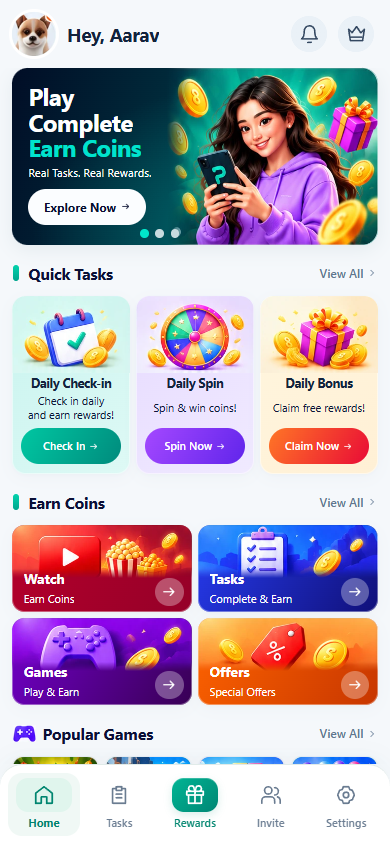
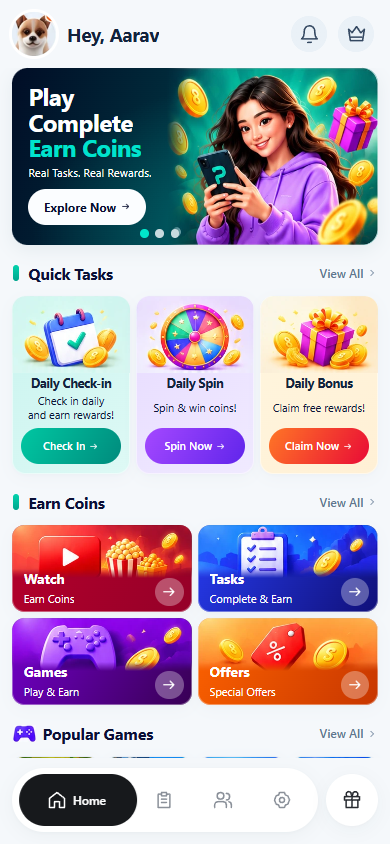
Add floating capsule navigation with sliding active pill

Changed region(s): [[0.0308, 0.8934, 0.9538, 0.9858]]

diff --git a/ui/preview/polish-review.html b/ui/preview/polish-review.html
@@ -1,1 +1,1 @@
-<!doctype html><html lang="en"><head><meta charset="utf-8"><meta name="viewport" content="width=device-width,initial-scale=1"><title>Paiso UI review</title><style>*{box-sizing:border-box}body{margin:0;background:#f5f8fb;color:#13233c;font:15px/1.6 system-ui,sans-serif}main{max-width:1180px;margin:auto;padding:36px 20px}header{margin-bottom:32px}header small{color:#009b7e;font-weight:700}h1{font-size:32px;letter-spacing:-1px;margin:8px 0}p{color:#65758d;margin:0}h2{font-size:21px;margin:32px 0 16px}.grid{display:grid;grid-template-columns:repeat(auto-fit,minmax(220px,1fr));gap:22px}figure{margin:0;overflow:hidden;border:1px solid #e5edf3;border-radius:18px;background:#fff;box-shadow:0 4px 16px #16395508}img{display:block;width:100%;height:auto}figcaption{padding:12px 16px;font-weight:600;border-top:1px solid #edf1f5}a:focus-visible{outline:3px solid #009b7e;outline-offset:-3px}</style></head><body><main><header><small>PAISO · UI REVIEW</small><h1>Consistent pages. Clear feedback.</h1><p>Browser previews with test data. Select an image to view it at full size.</p></header><section><h2>Main screens</h2><div class="grid"><figure><a href="home.png"><img src="home.png" loading="lazy" alt="Home preview"></a><figcaption>Home</figcaption></figure><figure><a href="tasks.png"><img src="tasks.png" loading="lazy" alt="Tasks preview"></a><figcaption>Tasks</figcaption></figure><figure><a href="refer.png"><img src="refer.png" loading="lazy" alt="Invite preview"></a><figcaption>Invite</figcaption></figure><figure><a href="wallet.png"><img src="wallet.png" loading="lazy" alt="Settings preview"></a><figcaption>Settings</figcaption></figure><figure><a href="games.png"><img src="games.png" loading="lazy" alt="Games preview"></a><figcaption>Games</figcaption></figure><figure><a href="offers.png"><img src="offers.png" loading="lazy" alt="Offers preview"></a><figcaption>Offers</figcaption></figure></div></section><section><h2>Details</h2><div class="grid"><figure><a href="tasks-offers-list.png"><img src="tasks-offers-list.png" loading="lazy" alt="Task list preview"></a><figcaption>Task list</figcaption></figure><figure><a href="settings-sub-verify.png"><img src="settings-sub-verify.png" loading="lazy" alt="Verification preview"></a><figcaption>Verification</figcaption></figure><figure><a href="withdraw.png"><img src="withdraw.png" loading="lazy" alt="Withdrawal preview"></a><figcaption>Withdrawal</figcaption></figure><figure><a href="notifications.png"><img src="notifications.png" loading="lazy" alt="Notifications preview"></a><figcaption>Notifications</figcaption></figure></div></section><section><h2>Action feedback</h2><div class="grid"><figure><a href="feedback-success.png"><img src="feedback-success.png" loading="lazy" alt="Success preview"></a><figcaption>Success</figcaption></figure><figure><a href="feedback-warning.png"><img src="feedback-warning.png" loading="lazy" alt="Warning preview"></a><figcaption>Warning</figcaption></figure><figure><a href="feedback-error.png"><img src="feedback-error.png" loading="lazy" alt="Error preview"></a><figcaption>Error</figcaption></figure><figure><a href="feedback-info.png"><img src="feedback-info.png" loading="lazy" alt="Processing preview"></a><figcaption>Processing</figcaption></figure></div></section><section><h2>Responsive fullscreen layout</h2><div class="grid"><figure><a href="home-320.png"><img src="home-320.png" loading="lazy" alt="Mobile navigation"></a><figcaption>Mobile navigation</figcaption></figure><figure><a href="home-768.png"><img src="home-768.png" loading="lazy" alt="Tablet Home"></a><figcaption>Tablet Home</figcaption></figure><figure><a href="home-1280.png"><img src="home-1280.png" loading="lazy" alt="Desktop Home"></a><figcaption>Desktop Home</figcaption></figure><figure><a href="tasks-1280.png"><img src="tasks-1280.png" loading="lazy" alt="Desktop Tasks"></a><figcaption>Desktop Tasks</figcaption></figure></div></section></main></body></html>
+<!doctype html><html lang="en"><head><meta charset="utf-8"><meta name="viewport" content="width=device-width,initial-scale=1"><title>Paiso UI review</title><style>*{box-sizing:border-box}body{margin:0;background:#f5f8fb;color:#13233c;font:15px/1.6 system-ui,sans-serif}main{max-width:1180px;margin:auto;padding:36px 20px}header{margin-bottom:32px}header small{color:#009b7e;font-weight:700}h1{font-size:32px;letter-spacing:-1px;margin:8px 0}p{color:#65758d;margin:0}h2{font-size:21px;margin:32px 0 16px}.grid{display:grid;grid-template-columns:repeat(auto-fit,minmax(220px,1fr));gap:22px}figure{margin:0;overflow:hidden;border:1px solid #e5edf3;border-radius:18px;background:#fff;box-shadow:0 4px 16px #16395508}img{display:block;width:100%;height:auto}figcaption{padding:12px 16px;font-weight:600;border-top:1px solid #edf1f5}a:focus-visible{outline:3px solid #009b7e;outline-offset:-3px}</style></head><body><main><header><small>PAISO · UI REVIEW</small><h1>Consistent pages. Clear feedback.</h1><p>Browser previews with test data. Select an image to view it at full size.</p></header><section><h2>Main screens</h2><div class="grid"><figure><a href="home.png"><img src="home.png" loading="lazy" alt="Home preview"></a><figcaption>Home</figcaption></figure><figure><a href="tasks.png"><img src="tasks.png" loading="lazy" alt="Tasks preview"></a><figcaption>Tasks</figcaption></figure><figure><a href="refer.png"><img src="refer.png" loading="lazy" alt="Invite preview"></a><figcaption>Invite</figcaption></figure><figure><a href="wallet.png"><img src="wallet.png" loading="lazy" alt="Settings preview"></a><figcaption>Settings</figcaption></figure><figure><a href="games.png"><img src="games.png" loading="lazy" alt="Games preview"></a><figcaption>Games</figcaption></figure><figure><a href="offers.png"><img src="offers.png" loading="lazy" alt="Offers preview"></a><figcaption>Offers</figcaption></figure></div></section><section><h2>Details</h2><div class="grid"><figure><a href="tasks-offers-list.png"><img src="tasks-offers-list.png" loading="lazy" alt="Task list preview"></a><figcaption>Task list</figcaption></figure><figure><a href="settings-sub-verify.png"><img src="settings-sub-verify.png" loading="lazy" alt="Verification preview"></a><figcaption>Verification</figcaption></figure><figure><a href="withdraw.png"><img src="withdraw.png" loading="lazy" alt="Withdrawal preview"></a><figcaption>Withdrawal</figcaption></figure><figure><a href="notifications.png"><img src="notifications.png" loading="lazy" alt="Notifications preview"></a><figcaption>Notifications</figcaption></figure></div></section><section><h2>Action feedback</h2><div class="grid"><figure><a href="feedback-success.png"><img src="feedback-success.png" loading="lazy" alt="Success preview"></a><figcaption>Success</figcaption></figure><figure><a href="feedback-warning.png"><img src="feedback-warning.png" loading="lazy" alt="Warning preview"></a><figcaption>Warning</figcaption></figure><figure><a href="feedback-error.png"><img src="feedback-error.png" loading="lazy" alt="Error preview"></a><figcaption>Error</figcaption></figure><figure><a href="feedback-info.png"><img src="feedback-info.png" loading="lazy" alt="Processing preview"></a><figcaption>Processing</figcaption></figure></div></section><section><h2>Responsive fullscreen layout</h2><div class="grid"><figure><a href="home-320.png"><img src="home-320.png" loading="lazy" alt="Mobile navigation"></a><figcaption>Mobile navigation</figcaption></figure><figure><a href="home-768.png"><img src="home-768.png" loading="lazy" alt="Tablet Home"></a><figcaption>Tablet Home</figcaption></figure><figure><a href="home-1280.png"><img src="home-1280.png" loading="lazy" alt="Desktop Home"></a><figcaption>Desktop Home</figcaption></figure><figure><a href="tasks-1280.png"><img src="tasks-1280.png" loading="lazy" alt="Desktop Tasks"></a><figcaption>Desktop Tasks</figcaption></figure></div></section><section><h2>Floating capsule navigation</h2><div class="grid"><figure><img src="navigation-home.png" loading="lazy" alt="Home selected in floating navigation"><figcaption>Home</figcaption></figure><figure><img src="navigation-tasks.png" loading="lazy" alt="Tasks selected in floating navigation"><figcaption>Tasks</figcaption></figure><figure><img src="navigation-refer.png" loading="lazy" alt="Invite selected in floating navigation"><figcaption>Invite</figcaption></figure><figure><img src="navigation-wallet.png" loading="lazy" alt="Settings selected in floating navigation"><figcaption>Settings</figcaption></figure></div></section></main></body></html>

diff --git a/public/responsive.css b/public/responsive.css
@@ -14,40 +14,60 @@
 .app-viewport, .settings-overlay-layer { border-left: env(safe-area-inset-left, 0px) solid transparent; border-right: env(safe-area-inset-right, 0px) solid transparent; }
 .settings-subpage > .screen-content { max-width: 760px; }
 
-/* A stable five-item dock: the reward action stays inside its own touch target. */
+/* Floating capsule and independent reward action. Reserve scroll space naturally. */
 nav.bottom-nav {
-  position: relative; inset: auto; flex: 0 0 auto; width: 100%;
-  height: auto; min-height: 80px; border-radius: 22px 22px 0 0;
-  padding: 8px max(8px, env(safe-area-inset-right, 0px)) calc(8px + env(safe-area-inset-bottom, 0px)) max(8px, env(safe-area-inset-left, 0px));
-  border-top: 1px solid #e1ebe9; background: #fffffffa;
-  box-shadow: 0 -6px 24px #173d4b08; backdrop-filter: blur(18px);
+  --nav-motion: 320ms cubic-bezier(.22,.68,0,1);
+  position: relative; inset: auto; display: flex; align-items: center; gap: 8px;
+  flex: 0 0 auto; width: calc(100% - 24px - env(safe-area-inset-left, 0px) - env(safe-area-inset-right, 0px)); max-width: 440px;
+  height: 64px; min-height: 64px; margin: 10px auto calc(12px + env(safe-area-inset-bottom, 0px));
+  padding: 0; border: 0; border-radius: 999px; background: transparent;
+  box-shadow: none; backdrop-filter: none; -webkit-backdrop-filter: none;
 }
-.bottom-nav-items { display: grid; grid-template-columns: repeat(5, minmax(0, 1fr)); gap: 4px; width: 100%; max-width: 680px; margin: 0 auto; }
+.bottom-nav-items {
+  position: relative; isolation: isolate; display: grid; grid-template-columns: 2fr 1fr 1fr 1fr;
+  flex: 1; min-width: 0; height: 64px; padding: 6px; border-radius: 999px;
+  background: #fff; box-shadow: 0 4px 18px #1423300b, 0 1px 3px #14233006;
+  transition: grid-template-columns var(--nav-motion);
+}
+.nav-active-pill {
+  position: absolute; z-index: -1; left: 6px; top: 6px; bottom: 6px;
+  width: calc((100% - 12px) * .4); border-radius: 999px; background: #17191c;
+  pointer-events: none; transform: translateX(0); transition: transform var(--nav-motion);
+}
+.bottom-nav-items:has([data-tab=tasks].active) { grid-template-columns: 1fr 2fr 1fr 1fr; }
+.bottom-nav-items:has([data-tab=refer].active) { grid-template-columns: 1fr 1fr 2fr 1fr; }
+.bottom-nav-items:has([data-tab=wallet].active) { grid-template-columns: 1fr 1fr 1fr 2fr; }
+.bottom-nav-items:has([data-tab=tasks].active) .nav-active-pill { transform: translateX(50%); }
+.bottom-nav-items:has([data-tab=refer].active) .nav-active-pill { transform: translateX(100%); }
+.bottom-nav-items:has([data-tab=wallet].active) .nav-active-pill { transform: translateX(150%); }
 nav.bottom-nav button, nav.bottom-nav button.nav-reward {
-  min-width: 0; min-height: 63px; padding: 3px 0; gap: 3px; border-radius: 14px;
-  color: #6a7c91; font-size: 11px; font-weight: 600; line-height: 16px;
-  transition: color 160ms var(--ui-ease), background-color 160ms var(--ui-ease);
+  display: flex; flex-direction: row; align-items: center; justify-content: center;
+  min-width: 0; min-height: 52px; height: 52px; padding: 0; gap: 0;
+  border: 0; border-radius: 999px; background: transparent; box-shadow: none;
+  color: #8a9099; font-size: 12px; font-weight: 600; line-height: 18px;
+  transition: color 180ms ease, gap var(--nav-motion);
 }
 nav.bottom-nav button .nav-icon, nav.bottom-nav .nav-reward > .nav-icon {
-  position: relative; inset: auto; display: grid; place-items: center; flex-shrink: 0;
-  width: 56px; max-width: 100%; height: 34px; border: 0; border-radius: 12px;
-  color: inherit; background: transparent; box-shadow: none;
-  transition: background-color 180ms var(--ui-ease), transform 180ms var(--ui-ease);
+  position: static; inset: auto; display: grid; place-items: center; flex: 0 0 20px;
+  width: 20px; height: 20px; border: 0; border-radius: 0; background: none; box-shadow: none; color: inherit;
+  transition: transform 180ms ease;
 }
-nav.bottom-nav button svg, nav.bottom-nav .nav-reward svg { width: 22px; height: 22px; fill: none; stroke-width: 1.8; }
+nav.bottom-nav button svg, nav.bottom-nav .nav-reward svg { width: 20px; height: 20px; fill: none; stroke-width: 1.8; }
 nav.bottom-nav button.active[data-tab=home] svg { fill: none; stroke-width: 1.8; }
-nav.bottom-nav button.active { color: #00856f; font-weight: 700; }
-nav.bottom-nav button.active .nav-icon { background: #e0f5ed; }
+nav.bottom-nav .nav-label { max-width: 0; overflow: hidden; opacity: 0; white-space: nowrap; transition: max-width var(--nav-motion), opacity 160ms ease; }
+nav.bottom-nav button.active { color: #fff; gap: 6px; font-weight: 600; }
+nav.bottom-nav button.active .nav-label { max-width: 65px; opacity: 1; }
 nav.bottom-nav button.active::after { display: none; }
-nav.bottom-nav .nav-reward > .nav-icon { width: 46px; color: white; background: linear-gradient(135deg,#00b594,#008674); box-shadow: 0 3px 8px #008e7426, inset 0 1px 0 #ffffff35; }
-nav.bottom-nav .nav-reward > .nav-label {
-  position: static; display: block; width: auto; height: auto; border: 0; border-radius: 0;
-  background: none; box-shadow: none; color: #00856f;
+nav.bottom-nav button.nav-reward {
+  flex: 0 0 52px; width: 52px; height: 52px; min-height: 52px;
+  color: #272a30; background: #fff; box-shadow: 0 4px 18px #1423300b, 0 1px 3px #14233006;
 }
-nav.bottom-nav button:active .nav-icon { transform: scale(.94); }
-nav.bottom-nav button:focus-visible { outline: 2px solid #009b7e; outline-offset: -2px; }
+nav.bottom-nav button:active .nav-icon { transform: scale(.9); }
+nav.bottom-nav button:focus-visible { outline: 2px solid #758190; outline-offset: 2px; }
+nav.bottom-nav button.active:focus-visible { outline-color: #17191c; }
 @media (hover: hover) {
-  nav.bottom-nav button:hover { color: #00856f; background: #f0f8f5; }
+  nav.bottom-nav button:not(.active):hover { color: #272a30; }
+  nav.bottom-nav button.nav-reward:hover { background: #f9fafb; }
 }
 
 @media (min-width: 600px) {
@@ -77,7 +97,6 @@ nav.bottom-nav button:focus-visible { outline: 2px solid #009b7e; outline-offset
   .screen-content.settings-content { padding: 24px var(--page-gutter) 32px; }
   #tab-games > .screen-content, #tab-offers > .screen-content, #tab-refer > .screen-content { padding: 24px var(--page-gutter) 32px; }
   .games-grid { grid-template-columns: repeat(3, minmax(0, 1fr)); }
-  nav.bottom-nav { border-radius: 0; }
 }
 @media (min-width: 760px) {
   .home-layout, .tasks-layout { grid-template-columns: repeat(2, minmax(0, 1fr)); align-items: start; }
@@ -111,10 +130,8 @@ nav.bottom-nav button:focus-visible { outline: 2px solid #009b7e; outline-offset
 }
 @media (max-height: 500px) and (min-width: 600px) {
   .home-header { height: calc(60px + env(safe-area-inset-top, 0px)); min-height: 60px; padding-top: calc(8px + env(safe-area-inset-top, 0px)); padding-bottom: 8px; }
-  nav.bottom-nav { min-height: 68px; padding-top: 4px; padding-bottom: calc(4px + env(safe-area-inset-bottom, 0px)); }
-  nav.bottom-nav button, nav.bottom-nav button.nav-reward { min-height: 59px; }
 }
 @media (prefers-reduced-motion: reduce) {
-  nav.bottom-nav button, nav.bottom-nav button .nav-icon { transition: none; }
+  nav.bottom-nav button, nav.bottom-nav button .nav-icon, nav.bottom-nav .nav-label, .bottom-nav-items, .nav-active-pill { transition: none; }
   nav.bottom-nav button:active .nav-icon { transform: none; }
 }

diff --git a/public/app.js b/public/app.js
@@ -928,26 +928,26 @@ function SettingsOverlays({ children }) {
 function BottomNav() {
     return h("nav", { className: "bottom-nav", "aria-label": "Main navigation" },
         h("div", { className: "bottom-nav-items" },
-            h("button", { type: "button", "data-tab": "home", className: "active", "aria-current": "page", onClick: () => window.showTab('home') },
+            h("span", { className: "nav-active-pill", "aria-hidden": "true" }),
+            h("button", { type: "button", "data-tab": "home", "aria-label": "Home", className: "active", "aria-current": "page", onClick: () => window.showTab('home') },
                 h("span", { className: "nav-icon" },
                     h(UiIcon, { name: "home" })),
-                h("span", { className: "nav-label" }, "Home")),
-            h("button", { type: "button", "data-tab": "tasks", onClick: () => window.showTab('tasks', 'all') },
+                h("span", { className: "nav-label", "aria-hidden": "true" }, "Home")),
+            h("button", { type: "button", "data-tab": "tasks", "aria-label": "Tasks", onClick: () => window.showTab('tasks', 'all') },
                 h("span", { className: "nav-icon" },
                     h(UiIcon, { name: "tasks" })),
-                h("span", { className: "nav-label" }, "Tasks")),
-            h("button", { type: "button", className: "nav-reward", "aria-label": "Claim daily reward", onClick: () => { window.showTab('home'); window.openDailyCheckin(); } },
-                h("span", { className: "nav-icon" },
-                    h(UiIcon, { name: "gift" })),
-                h("span", { className: "nav-label" }, "Rewards")),
-            h("button", { type: "button", "data-tab": "refer", onClick: () => window.showTab('refer') },
+                h("span", { className: "nav-label", "aria-hidden": "true" }, "Tasks")),
+            h("button", { type: "button", "data-tab": "refer", "aria-label": "Invite", onClick: () => window.showTab('refer') },
                 h("span", { className: "nav-icon" },
                     h(UiIcon, { name: "friends" })),
-                h("span", { className: "nav-label" }, "Invite")),
-            h("button", { type: "button", "data-tab": "wallet", onClick: () => window.showTab('wallet') },
+                h("span", { className: "nav-label", "aria-hidden": "true" }, "Invite")),
+            h("button", { type: "button", "data-tab": "wallet", "aria-label": "Settings", onClick: () => window.showTab('wallet') },
                 h("span", { className: "nav-icon" },
                     h(UiIcon, { name: "settings" })),
-                h("span", { className: "nav-label" }, "Settings"))));
+                h("span", { className: "nav-label", "aria-hidden": "true" }, "Settings"))),
+        h("button", { type: "button", className: "nav-reward", "aria-label": "Claim daily reward", title: "Daily rewards", onClick: () => { window.showTab('home'); window.openDailyCheckin(); } },
+            h("span", { className: "nav-icon" },
+                h(UiIcon, { name: "gift" }))));
 }
 
 // --- src/client/app.tsx ---

diff --git a/dist/client/components/BottomNav.js b/dist/client/components/BottomNav.js
@@ -3,24 +3,24 @@ import { UiIcon } from './shared/UiIcon';
 export function BottomNav() {
     return h("nav", { className: "bottom-nav", "aria-label": "Main navigation" },
         h("div", { className: "bottom-nav-items" },
-            h("button", { type: "button", "data-tab": "home", className: "active", "aria-current": "page", onClick: () => window.showTab('home') },
+            h("span", { className: "nav-active-pill", "aria-hidden": "true" }),
+            h("button", { type: "button", "data-tab": "home", "aria-label": "Home", className: "active", "aria-current": "page", onClick: () => window.showTab('home') },
                 h("span", { className: "nav-icon" },
                     h(UiIcon, { name: "home" })),
-                h("span", { className: "nav-label" }, "Home")),
-            h("button", { type: "button", "data-tab": "tasks", onClick: () => window.showTab('tasks', 'all') },
+                h("span", { className: "nav-label", "aria-hidden": "true" }, "Home")),
+            h("button", { type: "button", "data-tab": "tasks", "aria-label": "Tasks", onClick: () => window.showTab('tasks', 'all') },
                 h("span", { className: "nav-icon" },
                     h(UiIcon, { name: "tasks" })),
-                h("span", { className: "nav-label" }, "Tasks")),
-            h("button", { type: "button", className: "nav-reward", "aria-label": "Claim daily reward", onClick: () => { window.showTab('home'); window.openDailyCheckin(); } },
-                h("span", { className: "nav-icon" },
-                    h(UiIcon, { name: "gift" })),
-                h("span", { className: "nav-label" }, "Rewards")),
-            h("button", { type: "button", "data-tab": "refer", onClick: () => window.showTab('refer') },
+                h("span", { className: "nav-label", "aria-hidden": "true" }, "Tasks")),
+            h("button", { type: "button", "data-tab": "refer", "aria-label": "Invite", onClick: () => window.showTab('refer') },
                 h("span", { className: "nav-icon" },
                     h(UiIcon, { name: "friends" })),
-                h("span", { className: "nav-label" }, "Invite")),
-            h("button", { type: "button", "data-tab": "wallet", onClick: () => window.showTab('wallet') },
+                h("span", { className: "nav-label", "aria-hidden": "true" }, "Invite")),
+            h("button", { type: "button", "data-tab": "wallet", "aria-label": "Settings", onClick: () => window.showTab('wallet') },
                 h("span", { className: "nav-icon" },
                     h(UiIcon, { name: "settings" })),
-                h("span", { className: "nav-label" }, "Settings"))));
+                h("span", { className: "nav-label", "aria-hidden": "true" }, "Settings"))),
+        h("button", { type: "button", className: "nav-reward", "aria-label": "Claim daily reward", title: "Daily rewards", onClick: () => { window.showTab('home'); window.openDailyCheckin(); } },
+            h("span", { className: "nav-icon" },
+                h(UiIcon, { name: "gift" }))));
 }

diff --git a/src/client/components/BottomNav.tsx b/src/client/components/BottomNav.tsx
@@ -4,11 +4,12 @@ import { UiIcon } from './shared/UiIcon';
 export function BottomNav() {
   return <nav className="bottom-nav" aria-label="Main navigation">
     <div className="bottom-nav-items">
-      <button type="button" data-tab="home" className="active" aria-current="page" onClick={() => window.showTab('home')}><span className="nav-icon"><UiIcon name="home" /></span><span className="nav-label">Home</span></button>
-      <button type="button" data-tab="tasks" onClick={() => window.showTab('tasks', 'all')}><span className="nav-icon"><UiIcon name="tasks" /></span><span className="nav-label">Tasks</span></button>
-      <button type="button" className="nav-reward" aria-label="Claim daily reward" onClick={() => { window.showTab('home'); window.openDailyCheckin(); }}><span className="nav-icon"><UiIcon name="gift" /></span><span className="nav-label">Rewards</span></button>
-      <button type="button" data-tab="refer" onClick={() => window.showTab('refer')}><span className="nav-icon"><UiIcon name="friends" /></span><span className="nav-label">Invite</span></button>
-      <button type="button" data-tab="wallet" onClick={() => window.showTab('wallet')}><span className="nav-icon"><UiIcon name="settings" /></span><span className="nav-label">Settings</span></button>
+      <span className="nav-active-pill" aria-hidden="true" />
+      <button type="button" data-tab="home" aria-label="Home" className="active" aria-current="page" onClick={() => window.showTab('home')}><span className="nav-icon"><UiIcon name="home" /></span><span className="nav-label" aria-hidden="true">Home</span></button>
+      <button type="button" data-tab="tasks" aria-label="Tasks" onClick={() => window.showTab('tasks', 'all')}><span className="nav-icon"><UiIcon name="tasks" /></span><span className="nav-label" aria-hidden="true">Tasks</span></button>
+      <button type="button" data-tab="refer" aria-label="Invite" onClick={() => window.showTab('refer')}><span className="nav-icon"><UiIcon name="friends" /></span><span className="nav-label" aria-hidden="true">Invite</span></button>
+      <button type="button" data-tab="wallet" aria-label="Settings" onClick={() => window.showTab('wallet')}><span className="nav-icon"><UiIcon name="settings" /></span><span className="nav-label" aria-hidden="true">Settings</span></button>
     </div>
+    <button type="button" className="nav-reward" aria-label="Claim daily reward" title="Daily rewards" onClick={() => { window.showTab('home'); window.openDailyCheckin(); }}><span className="nav-icon"><UiIcon name="gift" /></span></button>
   </nav>;
 }

diff --git a/ui/UI-POLISH.md b/ui/UI-POLISH.md
@@ -20,6 +20,6 @@ Home shows the current avatar and a Hey, first-name greeting from user data. The
 
 `public/responsive.css` is the final layout layer. The shell fills the available browser viewport with dynamic viewport height; content stays readable within a 1280px maximum. At 760px, Home, Tasks and Settings reflow into columns. Games scale from two to four columns. Forms keep a narrower reading width. Reference artwork and text use a capped `--reference-unit`, avoiding oversized typography on desktop. Banner artwork keeps its original aspect ratio.
 
-The footer has five evenly spaced touch targets, consistent outline icons, a mint active pill and a labeled Rewards action. Its controls stay within the dock, which reserves space above the bottom safe area. Keyboard focus and reduced motion are supported. Inactive pages hide immediately to avoid showing two pages during a transition; incoming pages retain their gentle fade.
+The footer floats 12px above the bottom safe area, with a white capsule containing Home, Tasks, Invite and Settings, plus an independent circular Rewards action on the right. Only the selected tab shows its label, in white on a black pill. A single indicator slides between destinations while the grid redistributes space over 320ms. Inactive outline icons remain soft gray; all buttons retain accessible names and at least 44px touch targets. The container is capped at 440px, with no full-width footer surface or border. Scrolling reserves space above the controls. Keyboard focus and reduced motion are supported. Inactive pages hide immediately to avoid showing two pages during a transition; incoming pages retain their gentle fade.
 
-Regression coverage now includes nine viewport sizes from 320px to 1920px, portrait and landscape, full viewport bounds, footer touch targets, keyboard navigation, selected destinations, Rewards opening, content clearance and horizontal overflow. `node scripts/verify-ui.cjs --layout-only` runs the layout/navigation portion; omit the flag for all existing interaction checks. Preview images use fixture data, not live transactions.
+Regression coverage now includes nine viewport sizes from 320px to 1920px, portrait and landscape, full viewport bounds, floating capsule clearance, independent action geometry, footer touch targets, indicator alignment after switching tabs, visible active labels, hidden inactive labels, keyboard navigation, reduced-motion transitions, selected destinations, Rewards opening, content clearance and horizontal overflow. `node scripts/verify-ui.cjs --layout-only` runs the layout/navigation portion; omit the flag for all existing interaction checks. Preview images use fixture data, not live transactions. The four `ui/preview/navigation-*.png` images show each selected state.
